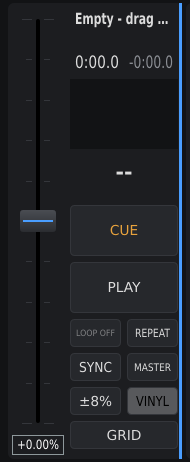
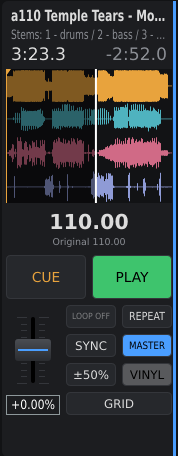
docs(stemdeck): pictures of StemDeck playing, taken on the rig
Both decks loaded, deck A playing, the REC meters lit and the library with
its sets, replacing the empty ones; the placeholders they stood in for
are gone.

diff --git a/src/user/stemdeck.md b/src/user/stemdeck.md
@@ -38,9 +38,7 @@ wire it and a first set: [StemDeck × A³ Motion](stemdeck-with-motion.md).
   the rest
 - Built with JUCE
 
-![StemDeck on the Core's screen, both decks empty](pics_user/stemdeck-main.png)
-
-<!-- IMAGE: the whole main window with a set loaded on both decks, one of them playing. Not taken on 2026-09-30: loading a set on the rig's running StemDeck changes the live session. -->
+![StemDeck on the Core's screen: both decks loaded, deck A playing](pics_user/stemdeck-main.png)
 
 (stemdeck-stem-sets)=
 
@@ -121,9 +119,7 @@ Core's touch screen has no keyboard. StemDeck remembers it.
 
 ### Decks
 
-![Deck A, empty: title, time, BPM, CUE and PLAY, the loop and sync keys, the tempo fader](pics_user/stemdeck-deck.png)
-
-<!-- IMAGE: the same deck with a set loaded and a loop set, BPM and "Original" filled in. Not taken: it needs a set loaded on the rig's running StemDeck. -->
+![Deck A playing: title, time, overview, BPM with the original tempo, CUE and PLAY, and at the foot the tempo fader with the loop, sync and grid keys](pics_user/stemdeck-deck.png)
 
 Laid out like a CDJ, without the platter: at 768 pixels a deck has no room
 for a jog wheel, and the controller's wheels do that job (see the StemDeck
@@ -173,9 +169,7 @@ strips, the output meters for buses 1–4, AUX and PH.
 
 ### Library
 
-![The library: search box, Load to A and Load to B, Create stems… and Rescan](pics_user/stemdeck-library.png)
-
-<!-- IMAGE: the library with a few sets listed and the BPM column filled. Not taken: the rig's library holds the maintainer's own music. -->
+![The library: search box, Load to A and Load to B, the library folder with its set count, Create stems… and Rescan, and the sets by artist and album](pics_user/stemdeck-library.png)
 
 One row per set: **Artist | Album | Set | BPM | Stems | Length** — artist and
 album from the folders, BPM once analysed. It starts sorted artist → album →
